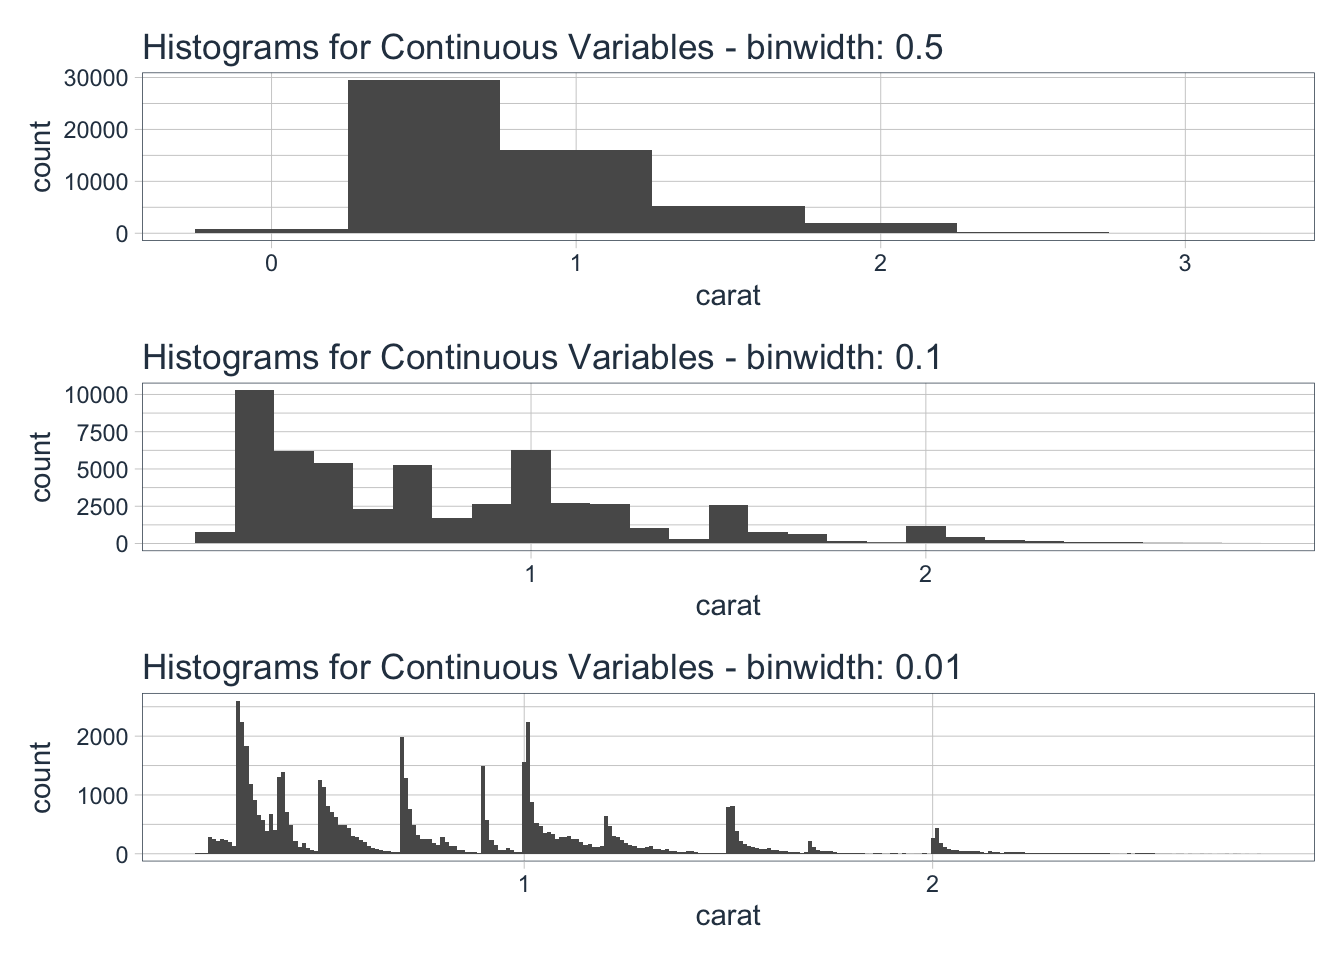
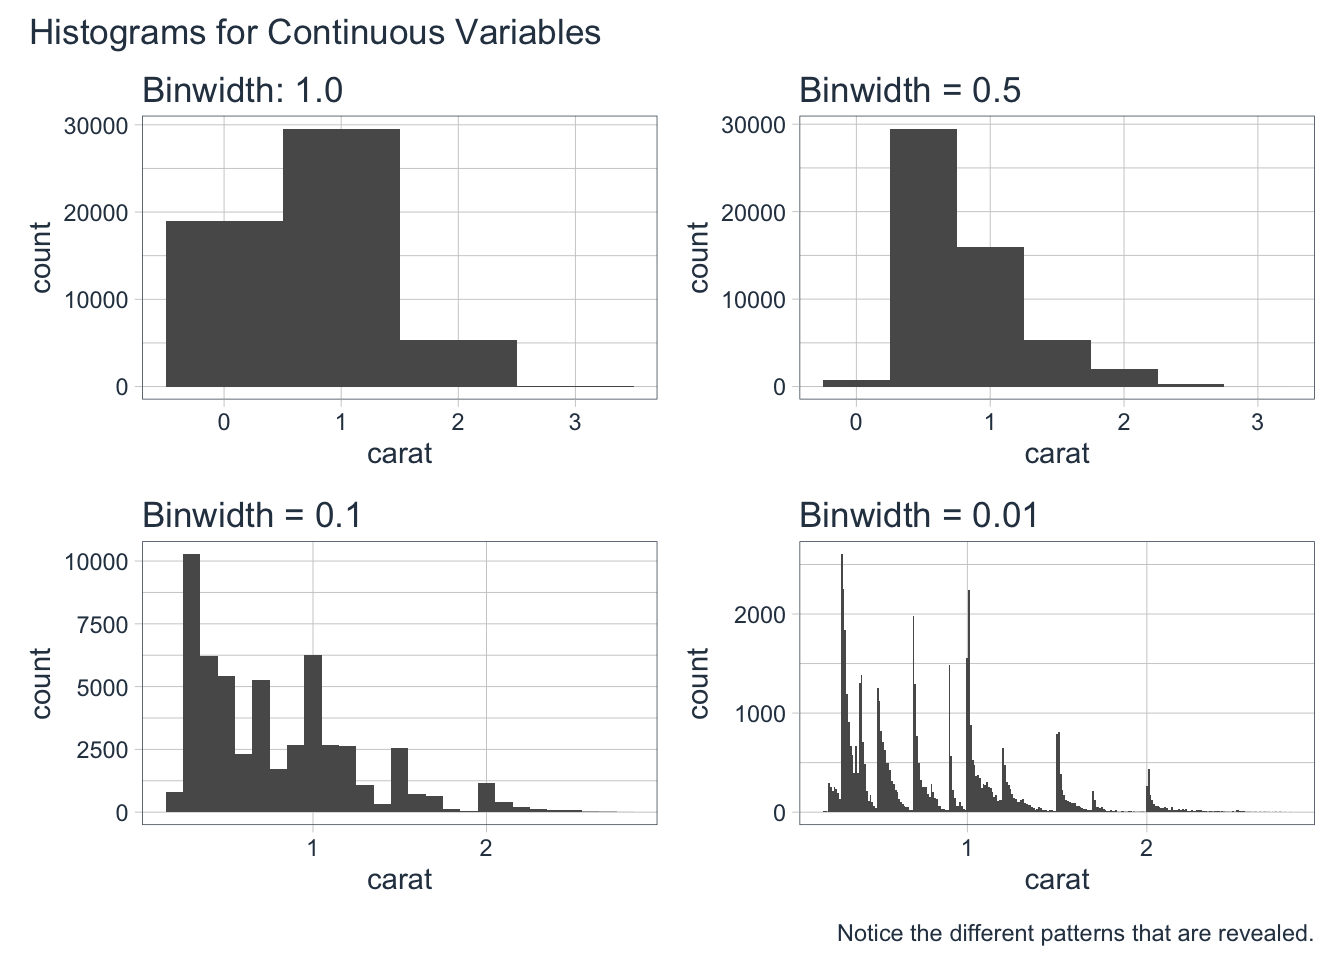
edited eda post

diff --git a/content/post/2020-06-20-exploratory-data-analysis-eda-guide.html b/content/post/2020-06-20-exploratory-data-analysis-eda-guide.html
@@ -10,6 +10,7 @@ tags:
   - R for Data Science
 editor_options: 
   chunk_output_type: console
+output: html_document
 ---
 
 
@@ -22,12 +23,12 @@ editor_options:
 <img src="/post/2020-06-20-exploratory-data-analysis-eda-guide_files/data_science_workflow.png" alt="" />
 <p class="caption">R4DS Workflow</p>
 </div>
-<p>Chapter 5 is on Exploratory Data Analysis (EDA) and this past week I dug into the material a bit.</p>
+<p>I dug into the material in the chapter on Exploratory Data Analysis (EDA) this past week.</p>
 <p>The chapter is 🔥 and I highly recommend it 😎</p>
 </div>
 <div id="exploring-data" class="section level3">
 <h3>Exploring Data</h3>
-<p>I was super excited about the chapter and the learning it packed!</p>
+<p>I was super excited about the chapter and the knowledge it packed!</p>
 <p>In my own path to improving my EDA skills I thought I’d capture what stuck out most to myself in a form of a blog post.</p>
 </div>
 <div id="eda-overview" class="section level3">
@@ -53,7 +54,7 @@ editor_options:
 </div>
 <div id="questions-drive-eda" class="section level3">
 <h3>Questions Drive EDA</h3>
-<p>One of my biggest take always from the chapter was the emphasis on EDA being a creative process that is <code>driven by</code> asking <code>questions</code> - and lots of them 🤓</p>
+<p>One of my biggest take always from the chapter was the emphasis on EDA being a creative process that is <code>driven by</code> asking <code>questions</code> - and lots of them 🤔</p>
 </div>
 <div id="section-on-questions" class="section level3">
 <h3>Section on Questions</h3>
@@ -74,7 +75,7 @@ editor_options:
 </div>
 <div id="section-on-variation" class="section level3">
 <h3>Section on Variation</h3>
-<p>We always are interested in discovering what explains the variation we see and so this sections was very interesting. Here are a few of the quotes that stood out:</p>
+<p>We always are interested in discovering what explains the variation seen in data and so the section on <code>Variation</code> was very interesting. Here are a few of the quotes that stood out:</p>
 <ul>
 <li><p>“Variation is the tendency of the values of a variable to change from measurement to measurement.”</p></li>
 <li><p>“Every variable has its own pattern of variation, which can reveal interesting information.”</p></li>
@@ -83,7 +84,9 @@ editor_options:
 </div>
 <div id="visualizating-distributions" class="section level3">
 <h3>Visualizating Distributions</h3>
-<p>This post wouldn’t be complete without a bit of code and a few visualizations.</p>
+<p>This post wouldn’t be complete without a bit of code and a few visualizations 🤓</p>
+<div id="categorical-variables" class="section level4">
+<h4>Categorical Variables</h4>
 <ul>
 <li>“To examine the distribution of a categorical variable, use a bar chart:”</li>
 </ul>
@@ -92,25 +95,88 @@ editor_options:
     labs(title = &quot;Bar Charts for Categorical Variables&quot;)
 p1</code></pre>
 <p><img src="/post/2020-06-20-exploratory-data-analysis-eda-guide_files/figure-html/unnamed-chunk-1-1.png" width="672" /></p>
+</div>
+<div id="continuous-variables" class="section level4">
+<h4>Continuous Variables</h4>
 <ul>
-<li><p>“examine the distribution of a continuous variable, use a histogram:”</p></li>
+<li><p>“To examine the distribution of a continuous variable, use a histogram:”</p></li>
 <li><p>“You can set the width of the intervals in a histogram with the <code>binwidth</code> argument, which is <code>measured in the units of the x variable</code>.”</p></li>
 </ul>
 <pre class="r"><code>p2 &lt;- ggplot(diamonds %&gt;% filter(carat &lt; 3)) +
-    geom_histogram(aes(x = carat), binwidth = 0.5) +
-    labs(title = &quot;Histograms for Continuous Variables - binwidth: 0.5&quot;) 
+    geom_histogram(aes(x = carat), binwidth = 1.0) +
+    labs(title = &quot;Binwidth: 1.0&quot;) 
 
 p3 &lt;- ggplot(diamonds %&gt;% filter(carat &lt; 3)) +
-    geom_histogram(aes(x = carat), binwidth = 0.1) +
-    labs(title = &quot;Histograms for Continuous Variables - binwidth: 0.1&quot;) 
+    geom_histogram(aes(x = carat), binwidth = 0.5) +
+    labs(title = &quot;Binwidth = 0.5&quot;) 
 
 p4 &lt;- ggplot(diamonds %&gt;% filter(carat &lt; 3)) +
+    geom_histogram(aes(x = carat), binwidth = 0.1) +
+    labs(title = &quot;Binwidth = 0.1&quot;) 
+
+p5 &lt;- ggplot(diamonds %&gt;% filter(carat &lt; 3)) +
     geom_histogram(aes(x = carat), binwidth = 0.01) +
-    labs(title = &quot;Histograms for Continuous Variables - binwidth: 0.01&quot;) </code></pre>
+    labs(title = &quot;Binwidth = 0.01&quot;) </code></pre>
 <ul>
 <li>“You should always <code>explore a variety of binwidths</code> when working with histograms, as different binwidths can reveal different patterns.”</li>
 </ul>
 <pre class="r"><code># Show plots
-p2/p3/p4</code></pre>
+patchwork &lt;- p2 + p3 + p4 + p5
+
+patchwork + plot_annotation(
+  title   = &quot;Histograms for Continuous Variables&quot;,
+  caption = &quot;Notice the different patterns that are revealed.&quot;
+)</code></pre>
 <p><img src="/post/2020-06-20-exploratory-data-analysis-eda-guide_files/figure-html/unnamed-chunk-3-1.png" width="672" /></p>
+</div>
+</div>
+<div id="typical-values" class="section level3">
+<h3>Typical Values</h3>
+<p>Remember how the author’s emphasize the use of questions to drive EDA?</p>
+<p>This section on <code>Typical</code> <code>Values</code> continues that thread and suggests the following questions to ask when <code>Visualizing</code> <code>Distributions</code>:</p>
+<ul>
+<li><p>“Which values are the most common? Why?”</p></li>
+<li><p>“Which values are rare? Why? Does that match your expectations?”</p></li>
+<li><p>“Can you see any unusual patterns? What might explain them?”</p></li>
+</ul>
+<p>Another learning from this section is to focus on the clusters revealed when <code>Visualizing</code> your <code>Distributions.</code> For example, take a look at the <code>Histogram</code> using a <code>Binwidth</code> of <code>0.01</code>; obvious clusters are revealed that are not obvious in the other 3 plots.</p>
+<pre class="r"><code>p5</code></pre>
+<p><img src="/post/2020-06-20-exploratory-data-analysis-eda-guide_files/figure-html/unnamed-chunk-4-1.png" width="480" style="display: block; margin: auto;" /></p>
+<p>The author’s point out that “clusters of similar values suggest that subgroups exist in your data.”</p>
+<p>What do you think they suggest doing in this situation? Ask more questions 🤔</p>
+<p>Understand the subgroups by asking:</p>
+<ul>
+<li><p>“How are the observations within each cluster similar to each other?”</p></li>
+<li><p>“How are the observations in separate clusters different from each other?”</p></li>
+<li><p>“How can you explain or describe the clusters?”</p></li>
+<li><p>“Why might the appearance of clusters be misleading?”</p></li>
+</ul>
+</div>
+<div id="wrap-up" class="section level3">
+<h3>Wrap Up</h3>
+<p>The chapter goes on to discuss unusual values, missing values, covariation, and briefly get’s into using models to further your EDA. I highly recommend giving it a read and trying out the exercises in the chapter.</p>
+<p>Questions. Questions. Questions.</p>
+<p>The biggest learning I took from this chapter, and what I’ve started using in my own EDA process, is getting better at asking questions. Not only that, but really to let my curiosity drive the EDA early on in the process.</p>
+<p>And my favorite quote is probably this one:</p>
+<blockquote>
+<p>“the key to asking quality questions is to generate a large quantity of questions.”</p>
+</blockquote>
+</div>
+<div id="watch-an-expert-do-eda" class="section level3">
+<h3>Watch an Expert do EDA</h3>
+<p>This is a quick bonus for making it this far in the post.</p>
+<p>David Robinson is an expert when it comes to all things <code>EDA</code> and <code>R.</code> For the last year or so he has been recording weekly screencasts where he <code>Explores</code> <code>Data</code> he has never seen before.</p>
+<p>I watch these videos often to get insights into how to think analytically when doing EDA.</p>
+<p>You can check them out here at his YouTube channel: <a href="https://www.youtube.com/playlist?list=PL19ev-r1GBwkuyiwnxoHTRC8TTqP8OEi8" target="_blank">Tidy Tuesday R Screencasts</a></p>
+</div>
+<div id="learn-r-quickly" class="section level3">
+<h3>Learn R Quickly</h3>
+<p>I’ve expedited my <code>R</code> journey using the courses over at <a href="https://www.business-science.io/?affcode=173166_vnvxtqbd" target="_blank">Business Science University</a></p>
+<p>The instructor and CEO has given me a 15% discount to share with my audience. Get the discount and join me on the journey.</p>
+<p>Link to my favorite <code>R</code> course: <a href="https://university.business-science.io/p/ds4b-101-r-business-analysis-r/?coupon_code=DS4B15&amp;affcode=173166_vnvxtqbd" target="_blank">Data Science for Business 101</a></p>
+</div>
+<div id="stay-connected" class="section level3">
+<h3>Stay Connected</h3>
+<p>Enter your <a href="https://tinyletter.com/dexters-analytics" target="_blank">Email Here</a> to receive notifications when new content is posted.<br/></p>
+<p>PS: Be Kind and Tidy your Data 😎</p>
 </div>

diff --git a/public/post/exploratory-data-analysis-eda-guide/index.html b/public/post/exploratory-data-analysis-eda-guide/index.html
@@ -152,12 +152,12 @@
 <img src="/post/2020-06-20-exploratory-data-analysis-eda-guide_files/data_science_workflow.png" alt="" />
 <p class="caption">R4DS Workflow</p>
 </div>
-<p>Chapter 5 is on Exploratory Data Analysis (EDA) and this past week I dug into the material a bit.</p>
+<p>I dug into the material in the chapter on Exploratory Data Analysis (EDA) this past week.</p>
 <p>The chapter is 🔥 and I highly recommend it 😎</p>
 </div>
 <div id="exploring-data" class="section level3">
 <h3>Exploring Data</h3>
-<p>I was super excited about the chapter and the learning it packed!</p>
+<p>I was super excited about the chapter and the knowledge it packed!</p>
 <p>In my own path to improving my EDA skills I thought I’d capture what stuck out most to myself in a form of a blog post.</p>
 </div>
 <div id="eda-overview" class="section level3">
@@ -183,7 +183,7 @@
 </div>
 <div id="questions-drive-eda" class="section level3">
 <h3>Questions Drive EDA</h3>
-<p>One of my biggest take always from the chapter was the emphasis on EDA being a creative process that is <code>driven by</code> asking <code>questions</code> - and lots of them 🤓</p>
+<p>One of my biggest take always from the chapter was the emphasis on EDA being a creative process that is <code>driven by</code> asking <code>questions</code> - and lots of them 🤔</p>
 </div>
 <div id="section-on-questions" class="section level3">
 <h3>Section on Questions</h3>
@@ -204,7 +204,7 @@
 </div>
 <div id="section-on-variation" class="section level3">
 <h3>Section on Variation</h3>
-<p>We always are interested in discovering what explains the variation we see and so this sections was very interesting. Here are a few of the quotes that stood out:</p>
+<p>We always are interested in discovering what explains the variation seen in data and so the section on <code>Variation</code> was very interesting. Here are a few of the quotes that stood out:</p>
 <ul>
 <li><p>“Variation is the tendency of the values of a variable to change from measurement to measurement.”</p></li>
 <li><p>“Every variable has its own pattern of variation, which can reveal interesting information.”</p></li>
@@ -213,7 +213,9 @@
 </div>
 <div id="visualizating-distributions" class="section level3">
 <h3>Visualizating Distributions</h3>
-<p>This post wouldn’t be complete without a bit of code and a few visualizations.</p>
+<p>This post wouldn’t be complete without a bit of code and a few visualizations 🤓</p>
+<div id="categorical-variables" class="section level4">
+<h4>Categorical Variables</h4>
 <ul>
 <li>“To examine the distribution of a categorical variable, use a bar chart:”</li>
 </ul>
@@ -222,27 +224,90 @@
     labs(title = &quot;Bar Charts for Categorical Variables&quot;)
 p1</code></pre>
 <p><img src="/post/2020-06-20-exploratory-data-analysis-eda-guide_files/figure-html/unnamed-chunk-1-1.png" width="672" /></p>
+</div>
+<div id="continuous-variables" class="section level4">
+<h4>Continuous Variables</h4>
 <ul>
-<li><p>“examine the distribution of a continuous variable, use a histogram:”</p></li>
+<li><p>“To examine the distribution of a continuous variable, use a histogram:”</p></li>
 <li><p>“You can set the width of the intervals in a histogram with the <code>binwidth</code> argument, which is <code>measured in the units of the x variable</code>.”</p></li>
 </ul>
 <pre class="r"><code>p2 &lt;- ggplot(diamonds %&gt;% filter(carat &lt; 3)) +
-    geom_histogram(aes(x = carat), binwidth = 0.5) +
-    labs(title = &quot;Histograms for Continuous Variables - binwidth: 0.5&quot;) 
+    geom_histogram(aes(x = carat), binwidth = 1.0) +
+    labs(title = &quot;Binwidth: 1.0&quot;) 
 
 p3 &lt;- ggplot(diamonds %&gt;% filter(carat &lt; 3)) +
-    geom_histogram(aes(x = carat), binwidth = 0.1) +
-    labs(title = &quot;Histograms for Continuous Variables - binwidth: 0.1&quot;) 
+    geom_histogram(aes(x = carat), binwidth = 0.5) +
+    labs(title = &quot;Binwidth = 0.5&quot;) 
 
 p4 &lt;- ggplot(diamonds %&gt;% filter(carat &lt; 3)) +
+    geom_histogram(aes(x = carat), binwidth = 0.1) +
+    labs(title = &quot;Binwidth = 0.1&quot;) 
+
+p5 &lt;- ggplot(diamonds %&gt;% filter(carat &lt; 3)) +
     geom_histogram(aes(x = carat), binwidth = 0.01) +
-    labs(title = &quot;Histograms for Continuous Variables - binwidth: 0.01&quot;) </code></pre>
+    labs(title = &quot;Binwidth = 0.01&quot;) </code></pre>
 <ul>
 <li>“You should always <code>explore a variety of binwidths</code> when working with histograms, as different binwidths can reveal different patterns.”</li>
 </ul>
 <pre class="r"><code># Show plots
-p2/p3/p4</code></pre>
+patchwork &lt;- p2 + p3 + p4 + p5
+
+patchwork + plot_annotation(
+  title   = &quot;Histograms for Continuous Variables&quot;,
+  caption = &quot;Notice the different patterns that are revealed.&quot;
+)</code></pre>
 <p><img src="/post/2020-06-20-exploratory-data-analysis-eda-guide_files/figure-html/unnamed-chunk-3-1.png" width="672" /></p>
+</div>
+</div>
+<div id="typical-values" class="section level3">
+<h3>Typical Values</h3>
+<p>Remember how the author’s emphasize the use of questions to drive EDA?</p>
+<p>This section on <code>Typical</code> <code>Values</code> continues that thread and suggests the following questions to ask when <code>Visualizing</code> <code>Distributions</code>:</p>
+<ul>
+<li><p>“Which values are the most common? Why?”</p></li>
+<li><p>“Which values are rare? Why? Does that match your expectations?”</p></li>
+<li><p>“Can you see any unusual patterns? What might explain them?”</p></li>
+</ul>
+<p>Another learning from this section is to focus on the clusters revealed when <code>Visualizing</code> your <code>Distributions.</code> For example, take a look at the <code>Histogram</code> using a <code>Binwidth</code> of <code>0.01</code>; obvious clusters are revealed that are not obvious in the other 3 plots.</p>
+<pre class="r"><code>p5</code></pre>
+<p><img src="/post/2020-06-20-exploratory-data-analysis-eda-guide_files/figure-html/unnamed-chunk-4-1.png" width="480" style="display: block; margin: auto;" /></p>
+<p>The author’s point out that “clusters of similar values suggest that subgroups exist in your data.”</p>
+<p>What do you think they suggest doing in this situation? Ask more questions 🤔</p>
+<p>Understand the subgroups by asking:</p>
+<ul>
+<li><p>“How are the observations within each cluster similar to each other?”</p></li>
+<li><p>“How are the observations in separate clusters different from each other?”</p></li>
+<li><p>“How can you explain or describe the clusters?”</p></li>
+<li><p>“Why might the appearance of clusters be misleading?”</p></li>
+</ul>
+</div>
+<div id="wrap-up" class="section level3">
+<h3>Wrap Up</h3>
+<p>The chapter goes on to discuss unusual values, missing values, covariation, and briefly get’s into using models to further your EDA. I highly recommend giving it a read and trying out the exercises in the chapter.</p>
+<p>Questions. Questions. Questions.</p>
+<p>The biggest learning I took from this chapter, and what I’ve started using in my own EDA process, is getting better at asking questions. Not only that, but really to let my curiosity drive the EDA early on in the process.</p>
+<p>And my favorite quote is probably this one:</p>
+<blockquote>
+<p>“the key to asking quality questions is to generate a large quantity of questions.”</p>
+</blockquote>
+</div>
+<div id="watch-an-expert-do-eda" class="section level3">
+<h3>Watch an Expert do EDA</h3>
+<p>This is a quick bonus for making it this far in the post.</p>
+<p>David Robinson is an expert when it comes to all things <code>EDA</code> and <code>R.</code> For the last year or so he has been recording weekly screencasts where he <code>Explores</code> <code>Data</code> he has never seen before.</p>
+<p>I watch these videos often to get insights into how to think analytically when doing EDA.</p>
+<p>You can check them out here at his YouTube channel: <a href="https://www.youtube.com/playlist?list=PL19ev-r1GBwkuyiwnxoHTRC8TTqP8OEi8" target="_blank">Tidy Tuesday R Screencasts</a></p>
+</div>
+<div id="learn-r-quickly" class="section level3">
+<h3>Learn R Quickly</h3>
+<p>I’ve expedited my <code>R</code> journey using the courses over at <a href="https://www.business-science.io/?affcode=173166_vnvxtqbd" target="_blank">Business Science University</a></p>
+<p>The instructor and CEO has given me a 15% discount to share with my audience. Get the discount and join me on the journey.</p>
+<p>Link to my favorite <code>R</code> course: <a href="https://university.business-science.io/p/ds4b-101-r-business-analysis-r/?coupon_code=DS4B15&amp;affcode=173166_vnvxtqbd" target="_blank">Data Science for Business 101</a></p>
+</div>
+<div id="stay-connected" class="section level3">
+<h3>Stay Connected</h3>
+<p>Enter your <a href="https://tinyletter.com/dexters-analytics" target="_blank">Email Here</a> to receive notifications when new content is posted.<br/></p>
+<p>PS: Be Kind and Tidy your Data 😎</p>
 </div>
 </div>
 
